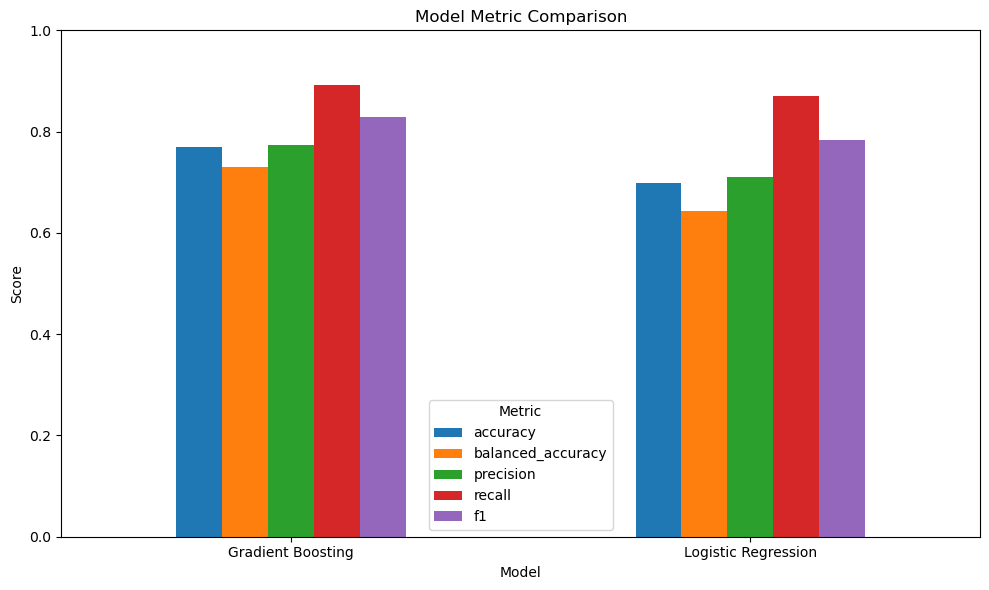
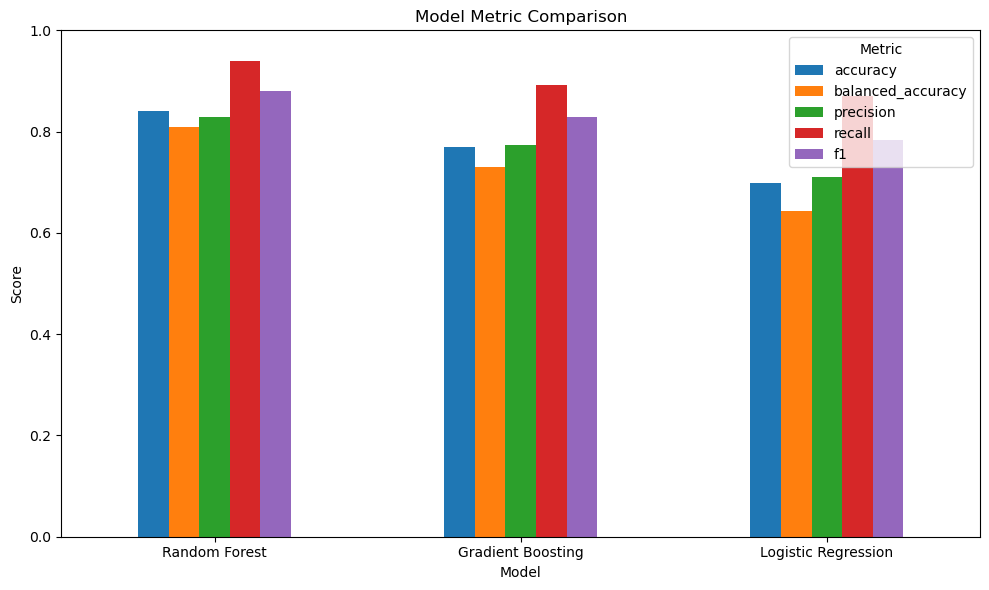
random forest added to evaluate pipeline

diff --git a/src/evaluate_models.py b/src/evaluate_models.py
@@ -18,7 +18,7 @@ from sklearn.model_selection import train_test_split
 from sklearn.preprocessing import StandardScaler
 from sklearn.pipeline import Pipeline
 from sklearn.linear_model import LogisticRegression
-from sklearn.ensemble import GradientBoostingClassifier
+from sklearn.ensemble import GradientBoostingClassifier, RandomForestClassifier
 from sklearn.metrics import ConfusionMatrixDisplay
 
 # -----------------------------------------------------------------------------
@@ -183,6 +183,11 @@ def main():
         ),
         "Gradient Boosting": GradientBoostingClassifier(
             random_state=RANDOM_STATE
+        ),
+        "Random Forest": RandomForestClassifier(
+            n_estimators=100,
+            random_state=RANDOM_STATE,
+            class_weight="balanced",
         ),
     }
 